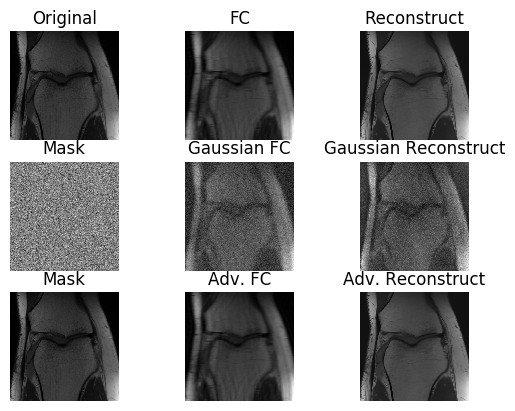
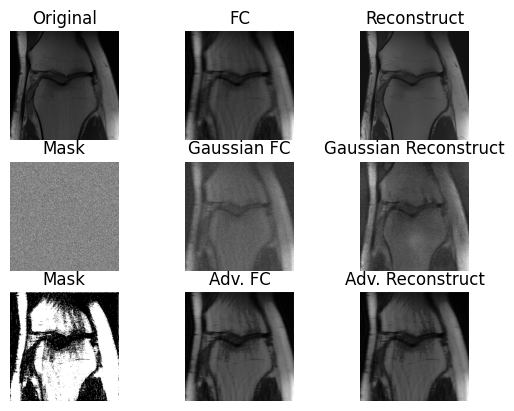
Create adversarial attack (not worse than Gaussian currently, needs fix)

diff --git a/corruptFourier.py b/corruptFourier.py
@@ -1,6 +1,6 @@
 """
 Created on September 22
-This code will run the baseline model on a corrupt Fourier coefficient input.
+This code will run the baseline model on an adversarially corrupt (via FGSM) Fourier coefficient input. Comparisons will be made to one corrupted via Gaussian noise.
 @author: Zain Khan
 """
 
@@ -9,18 +9,14 @@ import numpy as np
 import matplotlib.pyplot as plt
 import tensorflow as tf
 import readData as rd
-from cleverhans.compat import reduce_sum
-from cleverhans import utils_tf
+import misc as sf
 
 os.environ['TF_CPP_MIN_LOG_LEVEL'] = '2'
 os.environ['OMP_NUM_THREADS'] = '8'
-
-tf.executing_eagerly()
 tf.compat.v1.logging.set_verbosity(tf.compat.v1.logging.ERROR)
 
 cwd = os.getcwd()
 config = tf.compat.v1.ConfigProto()
-config.gpu_options.allow_growth = True
 
 # Model directory name
 directory = 'baselineModel'
@@ -39,113 +35,9 @@ _, nRow, nCol = tst_org.shape
 # Corrupt the input Fourier coefficients with Gaussian noise
 mean, std = 0.0, 0.5
 gauss_noise = np.random.normal(mean, std, tst_inp.shape)
+img_shape = np.shape(tst_inp)
+avg_perturb = np.sum(np.absolute(gauss_noise)) / (img_shape[0] * img_shape[1] * img_shape[2])
 tst_inp_gauss = np.copy(tst_inp) + gauss_noise
-
-# Function c2r concatenate complex input as new axis two two real inputs
-c2r = lambda x: tf.stack([tf.real(x), tf.imag(x)], axis=-1)
-
-# r2c takes the last dimension of real input and converts to complex
-r2c = lambda x: tf.complex(x[..., 0], x[..., 1])
-
-
-class Aclass:
-    """
-    This class is created to do the data-consistency (DC) step as described in paper.
-    """
-    def __init__(self, csm, mask, lam):
-        with tf.name_scope('Ainit'):
-            s = tf.shape(mask)
-            self.nrow, self.ncol = s[0], s[1]
-            self.pixels = self.nrow*self.ncol
-            self.mask = mask
-            self.csm = csm
-            self.SF = tf.complex(tf.sqrt(tf.to_float(self.pixels)), 0.)
-            self.lam = lam
-
-    def myAtA(self, img):
-        with tf.name_scope('AtA'):
-            coilImages = self.csm*img
-            kspace = tf.fft2d(coilImages)/self.SF
-            temp = kspace*self.mask
-            coilImgs = tf.ifft2d(temp)*self.SF
-            coilComb = tf.reduce_sum(coilImgs*tf.conj(self.csm), axis=0)
-            coilComb = coilComb + self.lam * img
-        return coilComb
-
-
-def myCG(A,rhs):
-    """
-    This is my implementation of CG algorithm in TensorFlow that works on
-    complex data and runs on GPU. It takes the class object as input.
-    """
-    rhs = r2c(rhs)
-    cond = lambda i, rTr, *_: tf.logical_and(tf.less(i, 10), rTr > 1e-10)
-
-    def body(i, rTr, x, r, p):
-        with tf.name_scope('cgBody'):
-            Ap = A.myAtA(p)
-            alpha = rTr / tf.to_float(tf.reduce_sum(tf.conj(p)*Ap))
-            alpha = tf.complex(alpha, 0.)
-            x = x + alpha * p
-            r = r - alpha * Ap
-            rTrNew = tf.to_float( tf.reduce_sum(tf.conj(r)*r))
-            beta = rTrNew / rTr
-            beta = tf.complex(beta,0.)
-            p = r + beta * p
-        return i+1, rTrNew, x, r, p
-
-    x=tf.zeros_like(rhs)
-    i,r,p=0,rhs,rhs
-    rTr = tf.to_float( tf.reduce_sum(tf.conj(r)*r),)
-    loopVar=i,rTr,x,r,p
-    out=tf.while_loop(cond,body,loopVar,name='CGwhile',parallel_iterations=1)[2]
-    return c2r(out)
-
-
-def get_lambda():
-    """
-    create a shared variable called lambda.
-    """
-    with tf.variable_scope(tf.get_variable_scope(), reuse=tf.AUTO_REUSE):
-        lam = tf.get_variable(name='lam1', dtype=tf.float32, initializer=.05)
-    return lam
-
-
-def callCG(rhs):
-    """
-    this function will call the function myCG on each image in a batch
-    """
-    G = tf.get_default_graph()
-    getnext = G.get_operation_by_name('getNext')
-    _, _, csm, mask = getnext.outputs
-    l = get_lambda()
-    l2 = tf.complex(l, 0.)
-
-    def fn(tmp):
-        c, m, r = tmp
-        Aobj = Aclass(c, m, l2)
-        y = myCG(Aobj, r)
-        return y
-    inp = (csm, mask, rhs)
-    rec = tf.map_fn(fn, inp, dtype=tf.float32, name='mapFn2')
-    return rec
-
-
-@tf.custom_gradient
-def dc_manual_gradient(x):
-    """
-    This function impose data consistency constraint. Rather than relying on
-    TensorFlow to calculate the gradient for the conjugate gradient part.
-    We can calculate the gradient manually as well by using this function.
-    Please see section III (c) in the paper.
-    """
-    y = callCG(x)
-
-    def grad(inp):
-        out = callCG(inp)
-        return out
-    return y, grad
-
 
 # Load model and predict
 tst_inp = tst_inp[..., np.newaxis]
@@ -169,34 +61,18 @@ with tf.compat.v1.Session(config=config) as sess:
     tst_rec[0] = sess.run(predT, feed_dict={senseT: tst_inp[[0]]})
     tst_rec_gauss[0] = sess.run(predT, feed_dict={senseT: tst_inp_gauss[[0]]})
 
-    # Find Gradient
+    # Get gradient of loss with respect to input
+    loss = tf.norm(predT - senseT, ord='euclidean')
+    g = tf.gradients(loss, senseT)
+    sess.run(tf.global_variables_initializer())
+    grad = sess.run(g, feed_dict={senseT: tst_inp[[0]]})
+
+    # Create adversarial example and run reconstruction
+    epsilon = avg_perturb
+    sign_grad = np.sign(grad)
+    tst_intr_adv = epsilon * sign_grad[0]
+    tst_inp_adv[[0]] = tst_inp + tst_intr_adv
     tst_rec_adv[0] = sess.run(predT, feed_dict={senseT: tst_inp_adv[[0]]})
-    loss = tf.norm(predT - senseT, 2)
-
-    '''
-    custom_grad = dc_manual_gradient(senseT)
-    gradient = tf.gradients(custom_grad, senseT)
-    a = sess.run(gradient, feed_dict={senseT: tst_inp_adv[[0]]})
-
-    print(a)
-
-    eps = 0.3
-    red_ind = list(range(1, len(gradient.get_shape())))
-    avoid_zero_div = 1e-12
-
-    square = tf.maximum(avoid_zero_div,
-                        reduce_sum(tf.square(gradient),
-                                   reduction_indices=red_ind,
-                                   keepdims=True))
-    optimal_perturbation = gradient / tf.sqrt(square)
-    scaled_perturbation = utils_tf.mul(eps, optimal_perturbation)
-
-    # Add perturbation to original example to obtain adversarial example
-    adv_x = senseT + scaled_perturbation
-
-    tst_intr_adv[0] = sess.run(adv_x, feed_dict={senseT: tst_inp_adv[[0]]})
-    tst_rec_adv[0] = sess.run(predT, feed_dict={senseT: tst_intr_adv[[0]]})
-    '''
 
 
 # Transform images into original shape
@@ -212,15 +88,30 @@ original_error = np.sqrt(np.sum((tst_rec[:, :, :] - tst_org[:, :, :]) ** 2))
 gaussian_error = np.sqrt(np.sum((tst_rec_gauss[:, :, :] - tst_org[:, :, :]) ** 2))
 adv_error = np.sqrt(np.sum((tst_rec_adv[:, :, :] - tst_org[:, :, :]) ** 2))
 
-# Display error results
-print('Original SSE Values')
-print('{}\n'.format(original_error))
+# Calculate SSIM and PSNR
+psnr_orig = sf.psnr2(tst_org, tst_rec)
+psnr_gauss = sf.psnr2(tst_org, tst_rec_gauss)
+psnr_adv = sf.psnr2(tst_org, tst_rec_adv)
 
-print('Gaussian SSE Values')
-print('{}\n'.format(gaussian_error))
+ssim_orig = sf.ssim2(tst_org, tst_rec)
+ssim_gauss = sf.ssim2(tst_org, tst_rec_gauss)
+ssim_adv = sf.ssim2(tst_org, tst_rec_adv)
 
-print('Adversarial SSE Values')
-print('{}'.format(adv_error))
+# Display reconstruction error results
+print('\nOriginal')
+print('SSE : {}'.format(original_error))
+print('PSNR : {}'.format(psnr_orig))
+print('SSIM : {}\n'.format(ssim_orig))
+
+print('Gaussian')
+print('SSE : {}'.format(gaussian_error))
+print('PSNR : {}'.format(psnr_gauss))
+print('SSIM : {}\n'.format(ssim_gauss))
+
+print('Adversarial')
+print('SSE : {}'.format(adv_error))
+print('PSNR : {}'.format(psnr_adv))
+print('SSIM : {}'.format(ssim_adv))
 
 # Subplot parameters
 rows, cols = 3, 3
@@ -244,8 +135,7 @@ for i in range(1, 4):
     plt.axis('off')
 
 # Display adversarial results
-adv_noise = tst_intr_adv[:, :, :] - tst_inp_adv[:, :, :]
-adv_images = [tst_org, tst_inp_adv, tst_rec_adv]
+adv_images = [tst_intr_adv, tst_inp_adv, tst_rec_adv]
 adv_titles = ['Mask', 'Adv. FC', 'Adv. Reconstruct']
 for i in range(1, 4):
     plt.subplot(rows, cols, i + 6)

diff --git a/demoCode.py b/demoCode.py
@@ -13,6 +13,7 @@ import tensorflow as tf
 import misc as sf
 import readData as rd
 
+tf.compat.v1.logging.set_verbosity(tf.compat.v1.logging.ERROR)
 cwd = os.getcwd()
 config = tf.ConfigProto()
 #config.gpu_options.allow_growth = True
@@ -45,12 +46,15 @@ with tf.Session(config=config) as sess:
     senseT = graph.get_tensor_by_name('sense:0')
     for i in range(nImg):
         dataDict = {senseT: tstInp[[i]]}
+        g = tf.gradients(predT, senseT)
         tstRec[i] = sess.run(predT, feed_dict=dataDict)
 
-        g = tf.gradients(predT, senseT)
-        tstGrad[i] = sess.run(predT, feed_dict=dataDict)
+        sess.run(tf.global_variables_initializer())
+        grad = sess.run(g, feed_dict=dataDict)
+
         
-print(tstGrad[i])
+print(tstRec[i])
+print(grad)
 
 # %% calculate the PSNR and SSIM
 tstRec = tstRec[..., 0]

diff --git a/misc.py b/misc.py
@@ -7,7 +7,8 @@ This file contains some supporting functions used during training and testing.
 import os
 import numpy as np
 import mkl_fft
-from skimage.measure import compare_ssim, compare_psnr
+#from skimage.measure import compare_ssim, compare_psnr
+from skimage.metrics import peak_signal_noise_ratio, structural_similarity
 
 os.environ['OMP_NUM_THREADS'] = '8'
 
@@ -52,12 +53,12 @@ def sos(data, dim=-3):
 
 
 def ssim2(gt, pred):
-    return compare_ssim(gt.transpose(1, 2, 0), pred.transpose(1, 2, 0),
+    return structural_similarity(gt.transpose(1, 2, 0), pred.transpose(1, 2, 0),
                         multichannel=True, data_range=gt.max())
 
 
 def psnr2(gt, pred):
-    return compare_psnr(gt, pred, data_range=gt.max())
+    return peak_signal_noise_ratio(gt, pred, data_range=gt.max())
 
 
 def r2c(inp):
